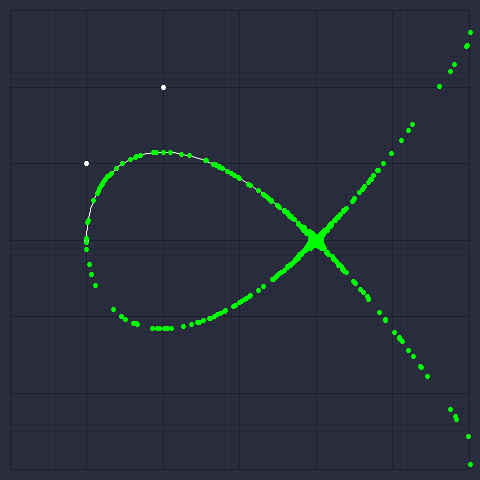
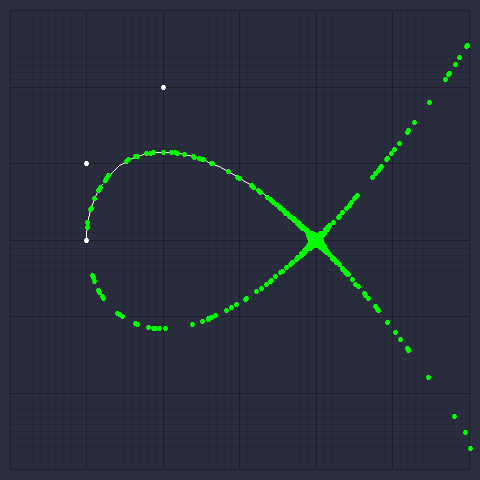
bezout resultant(wip)

diff --git a/src/bezier_implicitizer.rs b/src/bezier_implicitizer.rs
@@ -1,4 +1,4 @@
-use nalgebra::{DMatrix, Vector3};
+use nalgebra::{DMatrix, Vector3, DVector};
 use crate::bezier_curve::{binary_coef};
 
 pub fn implicit_bezier_curve(ctrl_points: &Vec<Vector3<f64>>) -> DMatrix<Vector3<f64>> {
@@ -23,32 +23,6 @@ pub fn implicit_bezier_curve(ctrl_points: &Vec<Vector3<f64>>) -> DMatrix<Vector3
     mtx
 }
 
-pub fn implicit_bezier_curve_quartic(ctrl_points: &Vec<Vector3<f64>>) -> DMatrix<Vector3<f64>> {
-    DMatrix::<Vector3<f64>>::from_row_slice(4, 4, &[
-        Vector3::new(-4.0, 0.0, 0.0),
-        Vector3::new(-12.0, 6.0, 0.0),
-        Vector3::new(-8.0, 12.0, 0.0),
-        Vector3::new(0.0, 3.0, 0.0),
-        //Vector3::new(0.0, 2.0, 0.0),
-
-        Vector3::new(-12.0, 6.0, 0.0),
-        Vector3::new(-32.0, 36.0, -24.0),
-        Vector3::new(-16.0, 50.0, -48.0),
-        Vector3::new(3.0, 9.0, -9.0),
-
-        Vector3::new(-8.0, 12.0, 0.0),
-        Vector3::new(-16.0, 50.0, -48.0),
-        Vector3::new(4.0, 56.0, -104.0),
-        Vector3::new(12.0, 6.0, -24.0),
-
-        Vector3::new(0.0, 3.0, 0.0),
-        //Vector3::new(0.0, 2.0, 0.0),
-        Vector3::new(4.0, 8.0, -8.0),
-        Vector3::new(12.0, 6.0, -24.0),
-        Vector3::new(8.0, -4.0, -16.0),
-    ])
-}
-
 pub fn calc_deviation(m: &DMatrix<Vector3<f64>>, p: Vector3<f64>) -> Result<f64, &'static str> {
     let n = m.nrows();
     let mut m1 = DMatrix::<f64>::zeros(n, n);
@@ -63,23 +37,17 @@ pub fn calc_deviation(m: &DMatrix<Vector3<f64>>, p: Vector3<f64>) -> Result<f64,
             Ok(m1.determinant())
             /*
             let mut d = DMatrix::<f64>::zeros(2, 2);
-            let mut m3 = DMatrix::<Vector3<f64>>::from_row_slice(2, 3, &[
-                Vector3::new(-6.0, 3.0, 0.0),
-                Vector3::new(-9.0, 12.0, -9.0),
-                Vector3::new(3.0, 9.0, -9.0),
-
-                Vector3::new(0.0, 0.0, 0.0),
-                Vector3::new(0.0, 3.0, 0.0),
-                Vector3::new(3.0, 3.0, -9.0),
-            ]);
             let mut m2 = DMatrix::<f64>::from_row_slice(2, 3, &[
                 Vector3::new(-6.0, 3.0, 0.0).dot(&p),
                 Vector3::new(-9.0, 12.0, -9.0).dot(&p),
                 Vector3::new(3.0, 9.0, -9.0).dot(&p),
 
-                Vector3::new(0.0, 0.0, 0.0).dot(&p),
+                //Vector3::new(0.0, 0.0, 0.0).dot(&p),
+                //Vector3::new(0.0, 3.0, 0.0).dot(&p),
+                //Vector3::new(3.0, 3.0, -9.0).dot(&p),
                 Vector3::new(0.0, 3.0, 0.0).dot(&p),
-                Vector3::new(3.0, 3.0, -9.0).dot(&p),
+                Vector3::new(3.0, 9.0, -9.0).dot(&p),
+                Vector3::new(6.0, 6.0, -18.0).dot(&p),
             ]);
 
 
@@ -91,7 +59,40 @@ pub fn calc_deviation(m: &DMatrix<Vector3<f64>>, p: Vector3<f64>) -> Result<f64,
             */
         },
         4 => {
-            Ok(m1.determinant())
+            //Ok(m1.determinant())
+            let row0 = m.row(0);
+            let row1 = m.row(1);
+            let row2 = m.row(2);
+            let row3 = m.row(3);
+
+            let m2 = DMatrix::from_row_slice(2, 2, &[
+                row0[(0, 0)].x, 
+                row1[(0, 0)].x, 
+                row0[(0, 0)].y, 
+                row1[(0, 0)].y, 
+            ]);
+            let a = m2.clone().try_inverse().unwrap() * DVector::from_row_slice(&[ row2[(0, 0)].x, row2[(0, 0)].y, ]);
+            let b = m2.clone().try_inverse().unwrap() * DVector::from_row_slice(&[ row3[(0, 0)].x, row3[(0, 0)].y, ]);
+            let s0 = a[(0, 0)];
+            let t0 = a[(1, 0)];
+            let s1 = b[(0, 0)];
+            let t1 = b[(1, 0)];
+            let m3 = DMatrix::from_row_slice(2, 3, &[
+                (m[(2, 1)] - m[(0, 1)] * s0 - m[(1, 1)] * t0).dot(&p),
+                (m[(2, 2)] - m[(0, 2)] * s0 - m[(1, 2)] * t0).dot(&p),
+                (m[(2, 3)] - m[(0, 3)] * s0 - m[(1, 3)] * t0).dot(&p),
+                (m[(3, 1)] - m[(0, 1)] * s1 - m[(1, 1)] * t1).dot(&p),
+                (m[(3, 2)] - m[(0, 2)] * s1 - m[(1, 2)] * t1).dot(&p),
+                (m[(3, 3)] - m[(0, 3)] * s1 - m[(1, 3)] * t1).dot(&p),
+            ]);
+
+
+            let mut d = DMatrix::<f64>::zeros(2, 2);
+            d[(0, 0)] = m3.clone().remove_column(2).determinant();
+            d[(0, 1)] = m3.clone().remove_column(1).determinant();
+            d[(1, 0)] = m3.clone().remove_column(1).determinant();
+            d[(1, 1)] = m3.clone().remove_column(0).determinant();
+            Ok(d.determinant())
         }
         _ => Err("Neither n <= 1 nor n >= 4 are implemented."),
     }

diff --git a/src/bezier_test_quartic.rs b/src/bezier_test_quartic.rs
@@ -3,7 +3,7 @@ use plotters::prelude::*;
 
 use crate::{
     bezier_curve::bezier_curve,
-    bezier_implicitizer::{calc_deviation, implicit_bezier_curve, implicit_bezier_curve_quartic},
+    bezier_implicitizer::{calc_deviation, implicit_bezier_curve},
     homogeneous2euclidean,
 };
 
@@ -45,13 +45,13 @@ fn quartic_test() {
     ))
     .unwrap();
 
-    for _ in 0..100000 {
+    for _ in 0..50000 {
         let p = Vector3::<f64>::new(
             rand::random::<f64>() * 3.0,
             rand::random::<f64>() * 4.0 - 2.0,
             1.0,
         );
-        if calc_deviation(&m, p).unwrap().abs() < 5.0 { o.push(p); }
+        if calc_deviation(&m, p).unwrap().abs() < 1.0 { o.push(p); }
     }
 
     c.draw_series(
